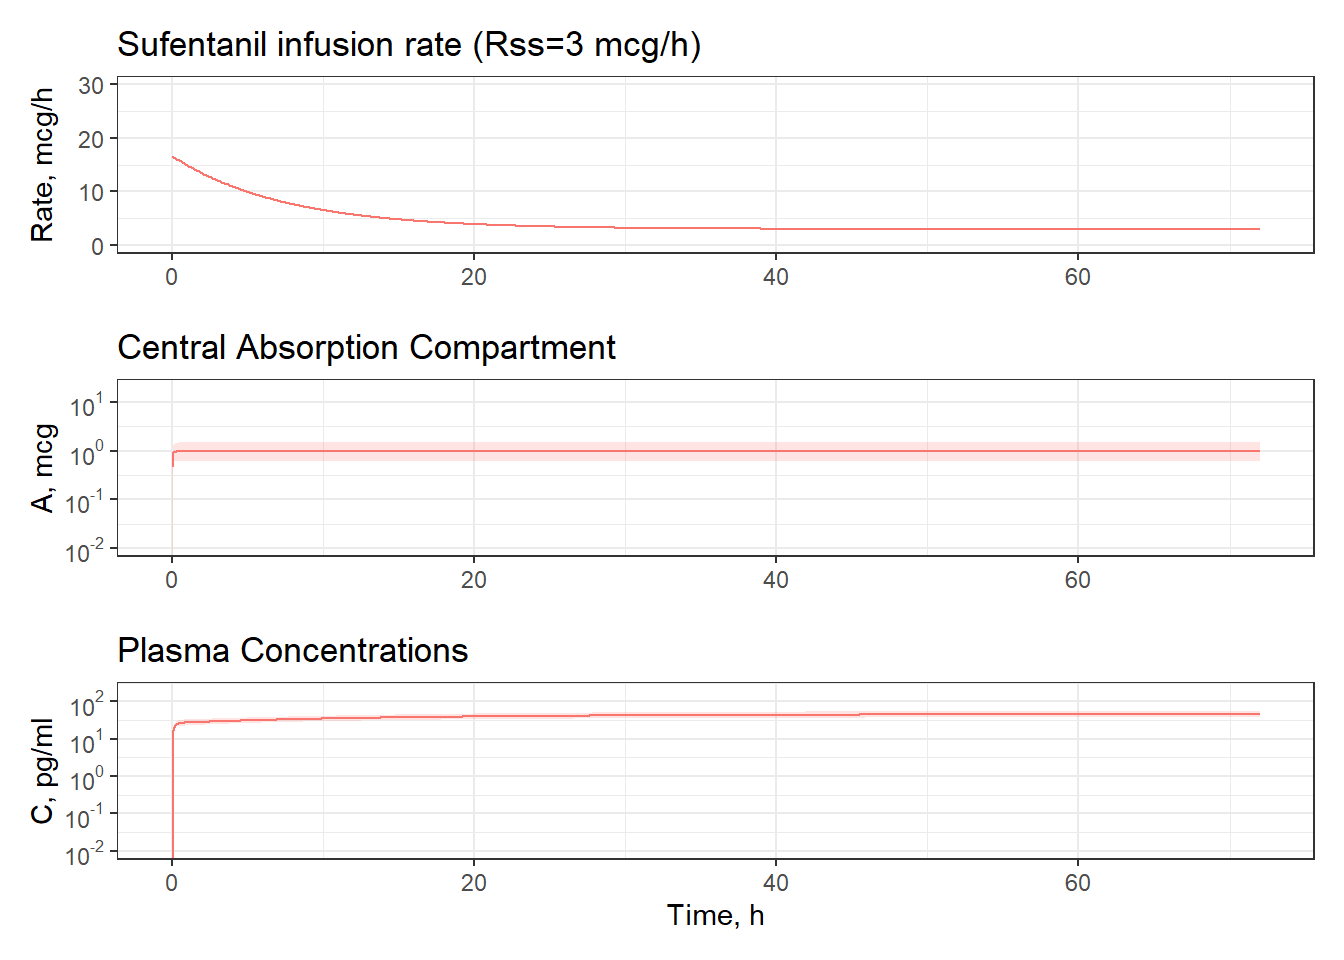
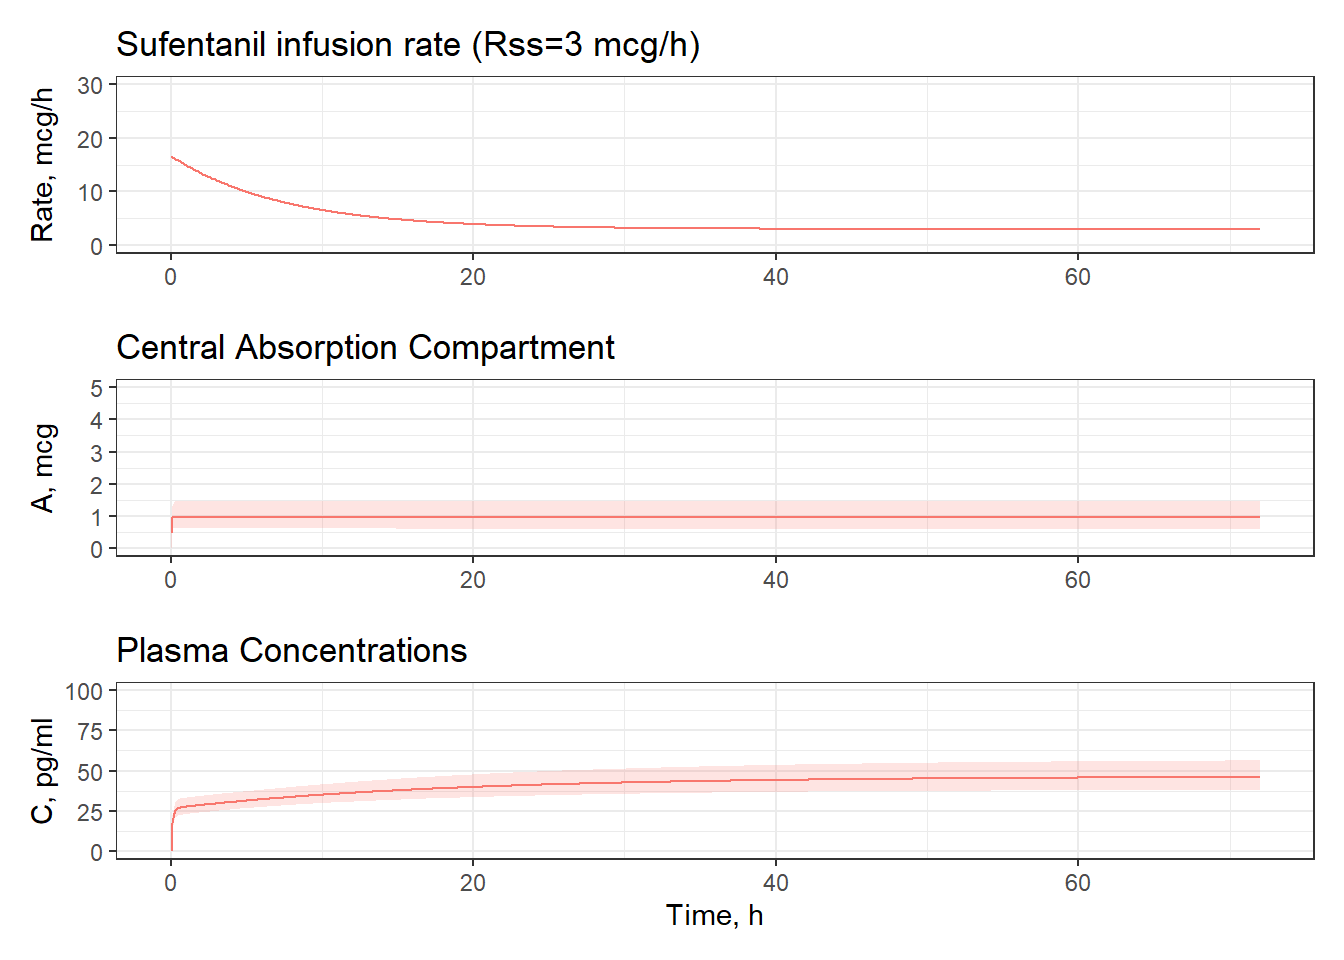
log to lin change for simulations

diff --git a/scripts/simulations.html b/scripts/simulations.html
@@ -366,27 +366,21 @@ div.csl-indent {
 <span id="cb4-24"><a href="#cb4-24" aria-hidden="true" tabindex="-1"></a>  <span class="fu">geom_line</span>()<span class="sc">+</span></span>
 <span id="cb4-25"><a href="#cb4-25" aria-hidden="true" tabindex="-1"></a>   <span class="fu">geom_ribbon</span>(<span class="fu">aes</span>(<span class="at">ymin =</span> absq0<span class="fl">.05</span>, <span class="at">ymax =</span> absq0<span class="fl">.95</span>, <span class="at">fill=</span><span class="fu">as.factor</span>(tinf)), <span class="at">colour =</span> <span class="cn">NA</span>, <span class="at">alpha =</span> <span class="fl">0.2</span>) <span class="sc">+</span></span>
 <span id="cb4-26"><a href="#cb4-26" aria-hidden="true" tabindex="-1"></a>  <span class="fu">labs</span>(<span class="at">title =</span> <span class="st">"Central Absorption Compartment"</span>, <span class="at">x =</span> <span class="fu">element_blank</span>(), <span class="at">y =</span> <span class="st">"A, mcg"</span>, <span class="at">color=</span><span class="st">"Tinf"</span>, <span class="at">fill=</span><span class="st">"Tinf"</span>)<span class="sc">+</span></span>
-<span id="cb4-27"><a href="#cb4-27" aria-hidden="true" tabindex="-1"></a>  <span class="fu">scale_y_continuous</span>(<span class="at">trans=</span><span class="st">'log10'</span>,</span>
-<span id="cb4-28"><a href="#cb4-28" aria-hidden="true" tabindex="-1"></a>                      <span class="at">breaks=</span><span class="fu">trans_breaks</span>(<span class="st">'log10'</span>, <span class="cf">function</span>(x) <span class="dv">10</span><span class="sc">^</span>x),</span>
-<span id="cb4-29"><a href="#cb4-29" aria-hidden="true" tabindex="-1"></a>                      <span class="at">labels=</span><span class="fu">trans_format</span>(<span class="st">'log10'</span>, <span class="fu">math_format</span>(<span class="dv">10</span><span class="sc">^</span>.x)))<span class="sc">+</span></span>
-<span id="cb4-30"><a href="#cb4-30" aria-hidden="true" tabindex="-1"></a>  <span class="fu">coord_cartesian</span>(<span class="at">ylim=</span><span class="fu">c</span>(<span class="fl">0.01</span>,<span class="dv">20</span>))<span class="sc">+</span> <span class="fu">theme</span>(<span class="at">legend.position =</span> <span class="st">"none"</span>)</span>
-<span id="cb4-31"><a href="#cb4-31" aria-hidden="true" tabindex="-1"></a></span>
-<span id="cb4-32"><a href="#cb4-32" aria-hidden="true" tabindex="-1"></a>p2 <span class="ot">&lt;-</span> data <span class="sc">%&gt;%</span></span>
-<span id="cb4-33"><a href="#cb4-33" aria-hidden="true" tabindex="-1"></a>  <span class="fu">ggplot</span>(<span class="fu">aes</span>(<span class="at">x=</span>time, <span class="at">y =</span> contq0<span class="fl">.5</span>, <span class="at">color=</span><span class="fu">as.factor</span>(tinf)))<span class="sc">+</span></span>
-<span id="cb4-34"><a href="#cb4-34" aria-hidden="true" tabindex="-1"></a>   <span class="fu">geom_ribbon</span>(<span class="fu">aes</span>(<span class="at">ymin =</span> contq0<span class="fl">.05</span>, <span class="at">ymax =</span> contq0<span class="fl">.95</span>, <span class="at">fill=</span><span class="fu">as.factor</span>(tinf)), <span class="at">colour =</span> <span class="cn">NA</span>, <span class="at">alpha =</span> <span class="fl">0.2</span>) <span class="sc">+</span> </span>
-<span id="cb4-35"><a href="#cb4-35" aria-hidden="true" tabindex="-1"></a>  <span class="fu">geom_line</span>()<span class="sc">+</span></span>
-<span id="cb4-36"><a href="#cb4-36" aria-hidden="true" tabindex="-1"></a>  <span class="fu">labs</span>(<span class="at">title =</span> <span class="st">"Plasma Concentrations"</span>, <span class="at">x =</span> <span class="st">"Time, h"</span>, <span class="at">y=</span><span class="st">"C, pg/ml"</span>, <span class="at">color=</span><span class="st">"Tinf"</span>, <span class="at">fill=</span><span class="st">"Tinf"</span>) <span class="sc">+</span></span>
-<span id="cb4-37"><a href="#cb4-37" aria-hidden="true" tabindex="-1"></a>  <span class="fu">scale_y_continuous</span>(<span class="at">trans=</span><span class="st">'log10'</span>,</span>
-<span id="cb4-38"><a href="#cb4-38" aria-hidden="true" tabindex="-1"></a>                      <span class="at">breaks=</span><span class="fu">trans_breaks</span>(<span class="st">'log10'</span>, <span class="cf">function</span>(x) <span class="dv">10</span><span class="sc">^</span>x),</span>
-<span id="cb4-39"><a href="#cb4-39" aria-hidden="true" tabindex="-1"></a>                      <span class="at">labels=</span><span class="fu">trans_format</span>(<span class="st">'log10'</span>, <span class="fu">math_format</span>(<span class="dv">10</span><span class="sc">^</span>.x)))<span class="sc">+</span></span>
-<span id="cb4-40"><a href="#cb4-40" aria-hidden="true" tabindex="-1"></a>  <span class="fu">coord_cartesian</span>(<span class="at">ylim=</span><span class="fu">c</span>(<span class="fl">0.01</span>,<span class="dv">200</span>))<span class="sc">+</span> <span class="fu">theme</span>(<span class="at">legend.position =</span> <span class="st">"none"</span>)</span>
-<span id="cb4-41"><a href="#cb4-41" aria-hidden="true" tabindex="-1"></a></span>
-<span id="cb4-42"><a href="#cb4-42" aria-hidden="true" tabindex="-1"></a>pall <span class="ot">&lt;-</span> p0<span class="sc">/</span>p1<span class="sc">/</span>p2<span class="sc">+</span> <span class="fu">plot_layout</span>(<span class="at">guides =</span> <span class="st">'collect'</span>)</span>
-<span id="cb4-43"><a href="#cb4-43" aria-hidden="true" tabindex="-1"></a></span>
-<span id="cb4-44"><a href="#cb4-44" aria-hidden="true" tabindex="-1"></a><span class="fu">ggsave</span>(<span class="at">filename =</span> here<span class="sc">::</span><span class="fu">here</span>(figures_dir, <span class="st">"sim"</span>, <span class="st">"ss-sim.png"</span>), </span>
-<span id="cb4-45"><a href="#cb4-45" aria-hidden="true" tabindex="-1"></a>       <span class="at">plot =</span> pall, <span class="at">width=</span><span class="dv">16</span>, <span class="at">height=</span><span class="dv">12</span>, <span class="at">dpi=</span><span class="dv">600</span>, <span class="at">units=</span><span class="st">"cm"</span>)</span>
-<span id="cb4-46"><a href="#cb4-46" aria-hidden="true" tabindex="-1"></a></span>
-<span id="cb4-47"><a href="#cb4-47" aria-hidden="true" tabindex="-1"></a>pall</span></code><button title="Copy to Clipboard" class="code-copy-button"><i class="bi"></i></button></pre></div>
+<span id="cb4-27"><a href="#cb4-27" aria-hidden="true" tabindex="-1"></a>  <span class="fu">coord_cartesian</span>(<span class="at">ylim=</span><span class="fu">c</span>(<span class="dv">0</span>,<span class="dv">5</span>))<span class="sc">+</span> <span class="fu">theme</span>(<span class="at">legend.position =</span> <span class="st">"none"</span>)</span>
+<span id="cb4-28"><a href="#cb4-28" aria-hidden="true" tabindex="-1"></a></span>
+<span id="cb4-29"><a href="#cb4-29" aria-hidden="true" tabindex="-1"></a>p2 <span class="ot">&lt;-</span> data <span class="sc">%&gt;%</span></span>
+<span id="cb4-30"><a href="#cb4-30" aria-hidden="true" tabindex="-1"></a>  <span class="fu">ggplot</span>(<span class="fu">aes</span>(<span class="at">x=</span>time, <span class="at">y =</span> contq0<span class="fl">.5</span>, <span class="at">color=</span><span class="fu">as.factor</span>(tinf)))<span class="sc">+</span></span>
+<span id="cb4-31"><a href="#cb4-31" aria-hidden="true" tabindex="-1"></a>   <span class="fu">geom_ribbon</span>(<span class="fu">aes</span>(<span class="at">ymin =</span> contq0<span class="fl">.05</span>, <span class="at">ymax =</span> contq0<span class="fl">.95</span>, <span class="at">fill=</span><span class="fu">as.factor</span>(tinf)), <span class="at">colour =</span> <span class="cn">NA</span>, <span class="at">alpha =</span> <span class="fl">0.2</span>) <span class="sc">+</span> </span>
+<span id="cb4-32"><a href="#cb4-32" aria-hidden="true" tabindex="-1"></a>  <span class="fu">geom_line</span>()<span class="sc">+</span></span>
+<span id="cb4-33"><a href="#cb4-33" aria-hidden="true" tabindex="-1"></a>  <span class="fu">labs</span>(<span class="at">title =</span> <span class="st">"Plasma Concentrations"</span>, <span class="at">x =</span> <span class="st">"Time, h"</span>, <span class="at">y=</span><span class="st">"C, pg/ml"</span>, <span class="at">color=</span><span class="st">"Tinf"</span>, <span class="at">fill=</span><span class="st">"Tinf"</span>) <span class="sc">+</span></span>
+<span id="cb4-34"><a href="#cb4-34" aria-hidden="true" tabindex="-1"></a>  <span class="fu">coord_cartesian</span>(<span class="at">ylim=</span><span class="fu">c</span>(<span class="dv">0</span>,<span class="dv">100</span>))<span class="sc">+</span> <span class="fu">theme</span>(<span class="at">legend.position =</span> <span class="st">"none"</span>)</span>
+<span id="cb4-35"><a href="#cb4-35" aria-hidden="true" tabindex="-1"></a></span>
+<span id="cb4-36"><a href="#cb4-36" aria-hidden="true" tabindex="-1"></a>pall <span class="ot">&lt;-</span> p0<span class="sc">/</span>p1<span class="sc">/</span>p2<span class="sc">+</span> <span class="fu">plot_layout</span>(<span class="at">guides =</span> <span class="st">'collect'</span>)</span>
+<span id="cb4-37"><a href="#cb4-37" aria-hidden="true" tabindex="-1"></a></span>
+<span id="cb4-38"><a href="#cb4-38" aria-hidden="true" tabindex="-1"></a><span class="fu">ggsave</span>(<span class="at">filename =</span> here<span class="sc">::</span><span class="fu">here</span>(figures_dir, <span class="st">"sim"</span>, <span class="st">"ss-sim.png"</span>), </span>
+<span id="cb4-39"><a href="#cb4-39" aria-hidden="true" tabindex="-1"></a>       <span class="at">plot =</span> pall, <span class="at">width=</span><span class="dv">16</span>, <span class="at">height=</span><span class="dv">12</span>, <span class="at">dpi=</span><span class="dv">600</span>, <span class="at">units=</span><span class="st">"cm"</span>)</span>
+<span id="cb4-40"><a href="#cb4-40" aria-hidden="true" tabindex="-1"></a></span>
+<span id="cb4-41"><a href="#cb4-41" aria-hidden="true" tabindex="-1"></a>pall</span></code><button title="Copy to Clipboard" class="code-copy-button"><i class="bi"></i></button></pre></div>
 </details>
 <div class="cell-output-display">
 <p><img src="simulations_files/figure-html/plot-ss-1.png" class="img-fluid" style="width:95.0%"></p>
